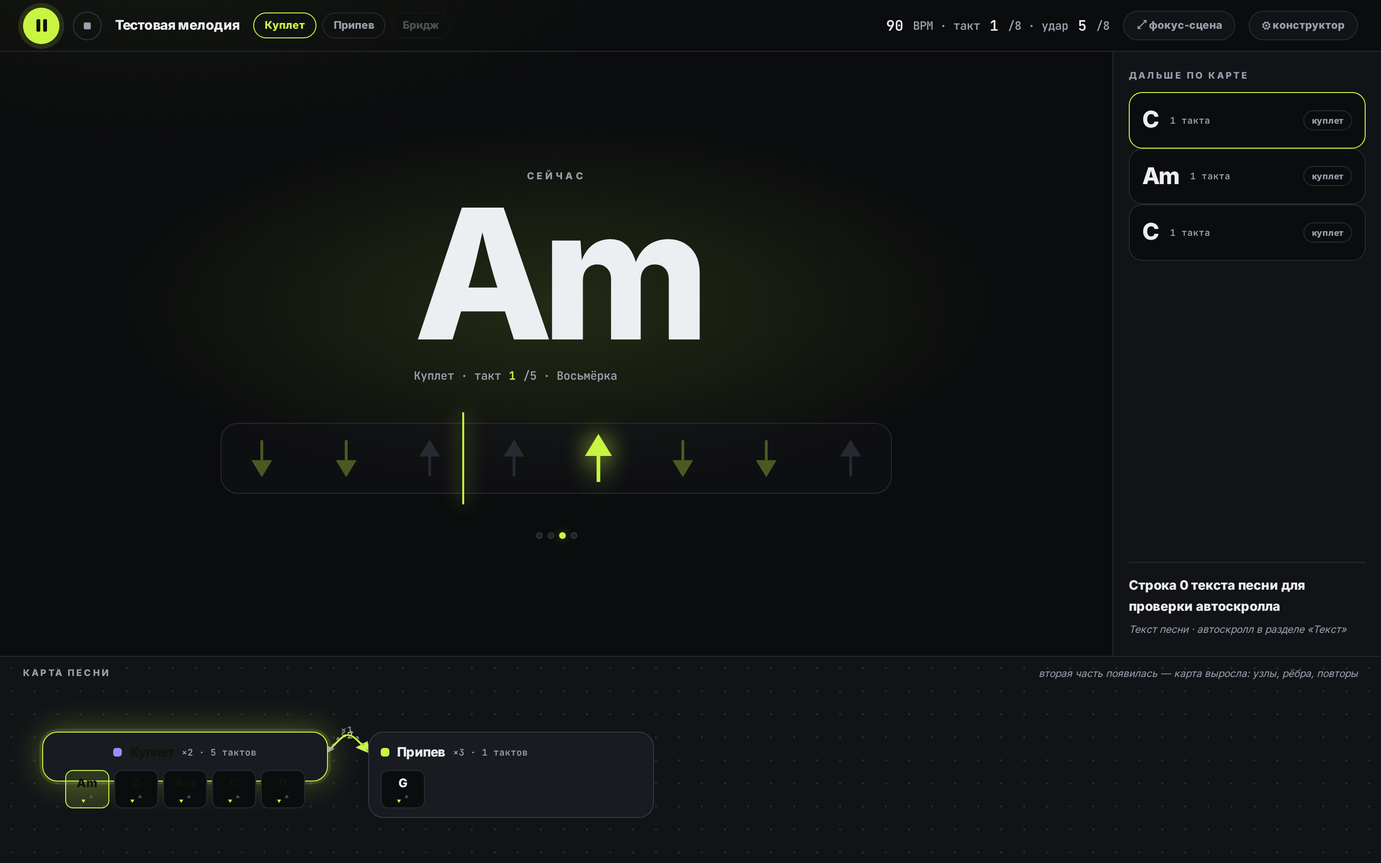
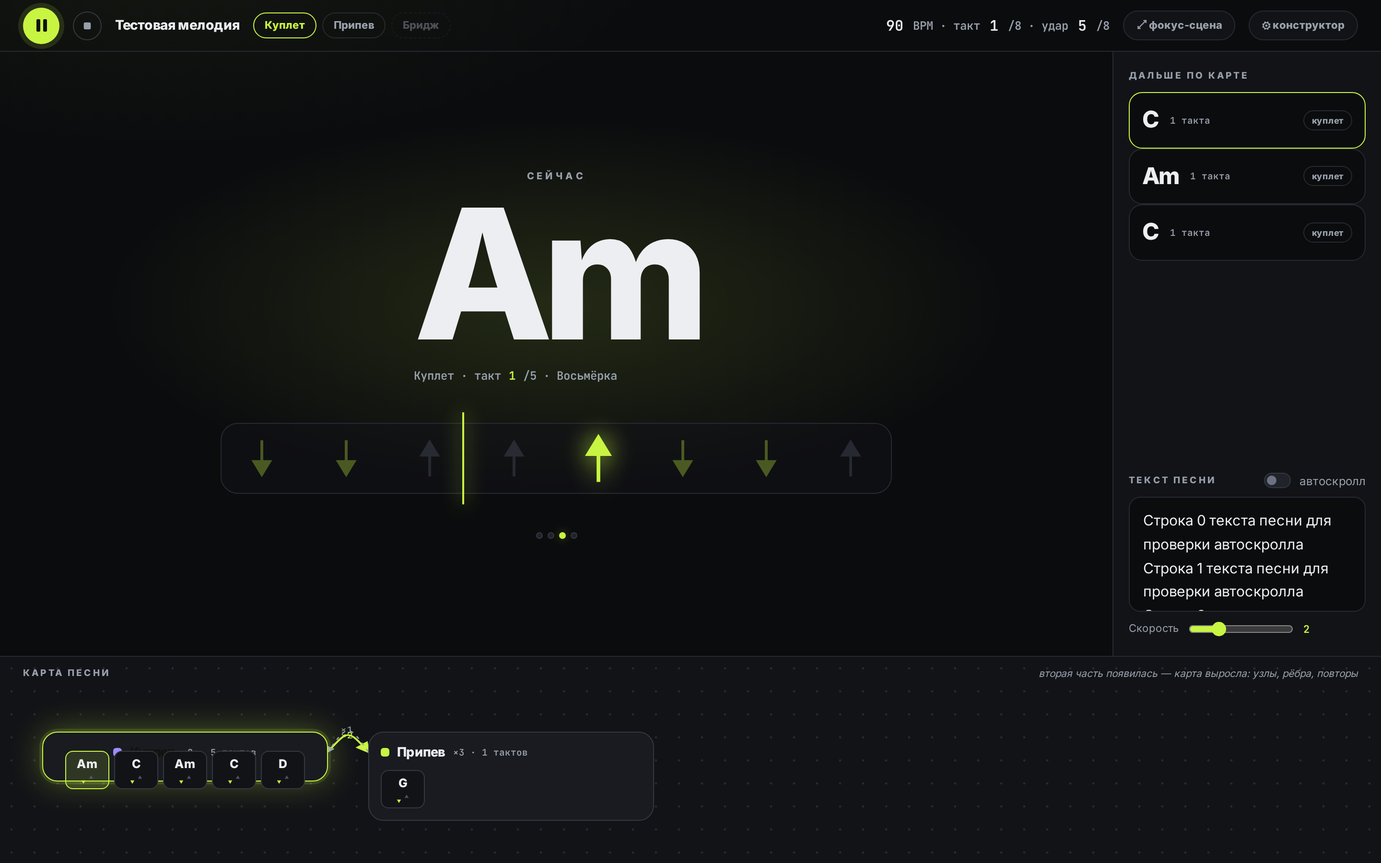
feat(stage): текст песни с автоскроллом на сцене, живой рельс «дальше», полные ленты тактов в узлах карты, контраст плиток, cache-bust ?v=h2-1; fix: мёртвая ссылка #st-lyr ломала refresh; e2e 32/32

Changed region(s): [[0.8125, 0.5911, 0.9688, 0.7467], [0.0312, 0.8711, 0.2188, 0.9333]]

diff --git a/dist/chordflow-redesign.html b/dist/chordflow-redesign.html
@@ -396,7 +396,7 @@ html[data-theme="paper"] .ncard{background:var(--s1)}
 .ncard .m{font:600 9.5px var(--font-mono);color:var(--muted)}
 .ncard.soon{border-color:var(--accent)}
 .ncard .from{margin-left:auto;font-size:9px;font-weight:700;color:var(--muted);border:var(--border-w) solid var(--line);border-radius:99px;padding:3px 8px;white-space:nowrap}
-.rail .lyr{margin-top:auto;border-top:var(--border-w) solid var(--line);padding-top:12px;font-size:13.5px;line-height:1.65;color:var(--muted);font-style:italic}
+.rail .lyr-unused{margin-top:auto;border-top:var(--border-w) solid var(--line);padding-top:12px;font-size:13.5px;line-height:1.65;color:var(--muted);font-style:italic}
 .rail .lyr b{color:var(--text);font-style:normal}
 .horizon{flex:none;height:var(--hh);border-top:var(--border-w) solid var(--line);background:var(--s1);position:relative;overflow:hidden;background-image:radial-gradient(var(--line) 1px, transparent 1.4px);background-size:24px 24px;transition:height .25s ease-out}
 html[data-theme="paper"] .horizon{background-color:var(--bg)}
@@ -434,6 +434,20 @@ html[data-theme="paper"] .cb{background:var(--s2)}
 .stplay.active{box-shadow:0 0 0 5px var(--accent-soft)}
 html[data-theme="paper"] .stplay{background:var(--line);color:var(--accent)}
 .ststop{width:30px;height:30px;border-radius:99px;border:var(--border-w) solid var(--line2);color:var(--muted);display:grid;place-items:center;flex:none}
+
+.stlyr{margin-top:auto;display:flex;flex-direction:column;gap:8px;min-height:0}
+.stlyr-head{display:flex;align-items:center;justify-content:space-between;gap:8px}
+.stlyr-box{flex:1;min-height:120px;max-height:34vh;resize:none;background:var(--bg);border:var(--border-w) solid var(--line);border-radius:12px;padding:12px 14px;font:400 15px/1.65 var(--font-ui);color:var(--text);outline:none;overflow-y:auto}
+html[data-theme="paper"] .stlyr-box{background:var(--s1)}
+.stlyr-box:focus{border-color:var(--accent-ring)}
+.stlyr-speed{display:flex;align-items:center;gap:8px;font-size:11px;color:var(--muted)}
+.stlyr-speed input{width:110px;accent-color:var(--accent)}
+html[data-theme="paper"] .stlyr-speed input{accent-color:var(--line)}
+.stlyr-speed output{font:600 11px var(--font-mono);color:var(--accent)}
+.gnode .strip2{overflow-x:auto;scrollbar-width:thin;padding-bottom:3px}
+.cb{background:var(--s1);border-color:var(--line2)}
+html[data-theme="paper"] .cb{background:var(--s2);border-color:var(--line)}
+.cb .n{color:var(--text)}
 
 </style>
 <style>
@@ -610,7 +624,13 @@ html[data-theme="paper"] .stplay{background:var(--line);color:var(--accent)}
       <aside class="rail">
         <span class="lbl">Дальше по карте</span>
         <div id="st-next"></div>
-        <div class="lyr" id="st-lyr"></div>
+        <div class="stlyr">
+          <div class="stlyr-head"><span class="lbl">Текст песни</span>
+            <label class="toggle small"><input id="st-autoscroll" type="checkbox"><span></span> автоскролл</label>
+          </div>
+          <textarea id="st-lyrics" class="stlyr-box" readonly spellcheck="false" placeholder="Текст появится из раздела «Текст песни»"></textarea>
+          <label class="stlyr-speed">Скорость <input id="st-speed" type="range" min="1" max="5" value="2"><output id="st-speed-value">2</output></label>
+        </div>
       </aside>
     </div>
     <div class="horizon" id="st-horizon">
@@ -1464,6 +1484,20 @@ function setupControls(state, handlers) {
       storage.set(themeKey, next);
     });
     $('#st-play').addEventListener('click', () => $('#play').click());
+    const stLyrics = $('#st-lyrics');
+    if (stLyrics) {
+      ['wheel', 'touchstart', 'touchmove', 'pointerdown'].forEach(ev => stLyrics.addEventListener(ev, stageLyricsHold, { passive: true }));
+      stLyrics.addEventListener('scroll', () => { if (stageUserHold) stageScrollPos = stLyrics.scrollTop; }, { passive: true });
+    }
+    const stAuto = $('#st-autoscroll');
+    if (stAuto) {
+      stAuto.checked = $('#lyrics-autoscroll')?.checked || false;
+      stAuto.onchange = () => { const la = $('#lyrics-autoscroll'); if (la) la.checked = stAuto.checked; stageScrollPos = stLyrics ? stLyrics.scrollTop : 0; };
+      if (!stageScrollTimer) stageScrollTimer = setInterval(stageLyricsTick, 50);
+    }
+    const stSpeed = $('#st-speed');
+    if (stSpeed) { stSpeed.value = $('#lyrics-speed')?.value || 2; $('#st-speed-value').textContent = stSpeed.value; stSpeed.oninput = () => { $('#st-speed-value').textContent = stSpeed.value; const ls = $('#lyrics-speed'); if (ls) { ls.value = stSpeed.value; $('#lyrics-speed-value').textContent = stSpeed.value; } }; }
+    $('#lyrics-text')?.addEventListener('input', () => { const b = $('#st-lyrics'); if (b) b.value = $('#lyrics-text').value; });
     $('#st-stop').addEventListener('click', () => $('#stop').click());
     $('#to-stage').addEventListener('click', () => setView('stage'));
     $('#to-constructor').addEventListener('click', () => setView('constructor'));
@@ -1592,8 +1626,6 @@ function renderStage(state) {
   $('#st-next').innerHTML = next.length
     ? next.map((o, i) => `<div class="ncard ${i === 0 ? 'soon' : ''}"><span class="n">${o.chord.name}</span><span class="m">${o.bars} такта</span><span class="from">${o.sectionName.toLowerCase()}</span></div>`).join('')
     : '<div class="ncard"><span class="m">Добавьте части — и здесь появится «дальше»</span></div>';
-  const lyr = (storage.get('guitar-constructor-lyrics-v1') || '').split('\n').filter(Boolean)[0];
-  $('#st-lyr').innerHTML = lyr ? `<b>${lyr}</b><br><span style="font-size:10.5px">Текст песни · автоскролл в разделе «Текст»</span>` : '';
   const seed = $('#st-seed'), graph = $('#st-graph');
   if (filled.length <= 1) {
     seed.style.display = 'flex'; graph.style.display = 'none';
@@ -1618,16 +1650,52 @@ function renderStage(state) {
     graph.innerHTML = `<svg class="edges" viewBox="0 0 1392 216" preserveAspectRatio="none"><defs><marker id="st-a" viewBox="0 0 10 10" refX="8" refY="5" markerWidth="7" markerHeight="7" orient="auto-start-reverse"><path d="M0 0 10 5 0 10z" fill="var(--accent)"/></marker><marker id="st-m" viewBox="0 0 10 10" refX="8" refY="5" markerWidth="6" markerHeight="6" orient="auto-start-reverse"><path d="M0 0 10 5 0 10z" fill="var(--muted)"/></marker></defs>${edges}</svg>` +
       filled.map(sec => {
         const p = pos[sec.id];
-        return `<section class="gnode sec-${(state.sections.indexOf(sec) % 3) + 1} ${sec.id === state.currentSectionId ? 'play' : ''}" data-section="${sec.id}" style="left:${p.x}px;top:${p.y}px"><div class="h"><i></i><b>${sec.name}</b><span class="m">×${state.songOrder.filter(x => x === sec.id).length} · ${sec.sequence.reduce((a, b) => a + b.bars, 0)} тактов</span></div><div class="strip2">${sec.sequence.slice(0, 5).map((bl, bi) => `<div class="cb" data-ci="${bi}"><div class="n">${bl.chord.name}</div><div class="a">${stArrow(state.pattern.strokes[0], true)}${stArrow(state.pattern.strokes[2] || state.pattern.strokes[0], true)}</div></div>`).join('')}</div></section>`;
+        return `<section class="gnode sec-${(state.sections.indexOf(sec) % 3) + 1} ${sec.id === state.currentSectionId ? 'play' : ''}" data-section="${sec.id}" style="left:${p.x}px;top:${p.y}px"><div class="h"><i></i><b>${sec.name}</b><span class="m">×${state.songOrder.filter(x => x === sec.id).length} · ${sec.sequence.reduce((a, b) => a + b.bars, 0)} тактов</span></div><div class="strip2">${sec.sequence.map((bl, bi) => `<div class="cb" data-ci="${bi}" title="${bl.chord.name}"><div class="n">${bl.chord.name}</div><div class="a">${stArrow(state.pattern.strokes[0], true)}${stArrow(state.pattern.strokes[2] || state.pattern.strokes[0], true)}</div></div>`).join('')}</div></section>`;
       }).join('');
+  }
+  const stLyrics = $('#st-lyrics');
+  if (stLyrics) {
+    const src = $('#lyrics-text')?.value || storage.get('guitar-constructor-lyrics-v1') || '';
+    if (stLyrics.value !== src) { stLyrics.value = src; stageScrollPos = 0; }
   }
   $('#st-hint').textContent = filled.length <= 1
     ? 'заполнена одна часть — карта свернулась в семечко'
     : filled.length === 2 ? 'вторая часть появилась — карта выросла: узлы, рёбра, повторы' : 'песня собрана — виден весь обход с петлёй цикла';
 }
 
+let stageScrollTimer = null, stageScrollPos = 0, stageUserHold = false, stageHoldTimer = null, lastNextKey = '';
+function stageNextHTML(state, item) {
+  const order = orderSequence(state);
+  const idx = order.findIndex(o => o.sectionId === item.sectionId && o.localIndex === item.localIndex);
+  const next = order.slice(idx + 1, idx + 4);
+  return next.length
+    ? next.map((o, i) => `<div class="ncard ${i === 0 ? 'soon' : ''}"><span class="n">${o.chord.name}</span><span class="m">${o.bars} такта</span><span class="from">${o.sectionName.toLowerCase()}</span></div>`).join('')
+    : '<div class="ncard"><span class="m">Конец песни · цикл вернёт к началу</span></div>';
+}
+function stageLyricsTick() {
+  const box = $('#st-lyrics');
+  if (!box || document.body.dataset.view !== 'stage') return;
+  if (!document.body.classList.contains('playing') || !$('#st-autoscroll')?.checked || stageUserHold) return;
+  const speed = (7 + Number($('#st-speed')?.value || 2)) * 0.075;
+  stageScrollPos += speed;
+  box.scrollTop = stageScrollPos;
+  if (box.scrollTop + box.clientHeight >= box.scrollHeight - 2) { $('#st-autoscroll').checked = false; }
+}
+function stageLyricsHold() {
+  const box = $('#st-lyrics'); if (!box || !$('#st-autoscroll')?.checked) return;
+  stageUserHold = true; stageScrollPos = box.scrollTop;
+  if (stageHoldTimer) clearTimeout(stageHoldTimer);
+  stageHoldTimer = setTimeout(() => { stageUserHold = false; stageScrollPos = box.scrollTop; }, 800);
+}
+
 function updateStagePlayhead(item, step) {
   if (document.body.dataset.view !== 'stage' || !item) return;
+  const key = item.sectionId + ':' + item.localIndex;
+  if (key !== lastNextKey && currentState) { lastNextKey = key; const rail = $('#st-next'); if (rail) rail.innerHTML = stageNextHTML(currentState, item); }
+  document.querySelectorAll('.gnode .strip2').forEach(strip => {
+    const lit = strip.closest('.gnode')?.classList.contains('play') ? strip.querySelector('.cb.lit') : null;
+    if (lit) strip.scrollLeft = Math.max(0, lit.offsetLeft - (strip.clientWidth - lit.offsetWidth) / 2);
+  });
   $('#st-chord').textContent = item.chord.name;
   $('#st-bar').textContent = item.localIndex + 1;
   $('#st-hit').textContent = (step % 8) + 1;

diff --git a/ui.js b/ui.js
@@ -1,5 +1,5 @@
-import { CHORDS, MAIN_CHORDS, ADDITIONAL_CHORDS, STRING_NAMES } from './chords-data.js?v=chords-2';
-import { PATTERNS } from './patterns-data.js?v=eighth-10';
+import { CHORDS, MAIN_CHORDS, ADDITIONAL_CHORDS, STRING_NAMES } from './chords-data.js?v=h2-1';
+import { PATTERNS } from './patterns-data.js?v=h2-1';
 
 const $ = selector => document.querySelector(selector);
 const appKey = 'guitar-constructor-session-v1';
@@ -318,6 +318,20 @@ export function setupControls(state, handlers) {
       storage.set(themeKey, next);
     });
     $('#st-play').addEventListener('click', () => $('#play').click());
+    const stLyrics = $('#st-lyrics');
+    if (stLyrics) {
+      ['wheel', 'touchstart', 'touchmove', 'pointerdown'].forEach(ev => stLyrics.addEventListener(ev, stageLyricsHold, { passive: true }));
+      stLyrics.addEventListener('scroll', () => { if (stageUserHold) stageScrollPos = stLyrics.scrollTop; }, { passive: true });
+    }
+    const stAuto = $('#st-autoscroll');
+    if (stAuto) {
+      stAuto.checked = $('#lyrics-autoscroll')?.checked || false;
+      stAuto.onchange = () => { const la = $('#lyrics-autoscroll'); if (la) la.checked = stAuto.checked; stageScrollPos = stLyrics ? stLyrics.scrollTop : 0; };
+      if (!stageScrollTimer) stageScrollTimer = setInterval(stageLyricsTick, 50);
+    }
+    const stSpeed = $('#st-speed');
+    if (stSpeed) { stSpeed.value = $('#lyrics-speed')?.value || 2; $('#st-speed-value').textContent = stSpeed.value; stSpeed.oninput = () => { $('#st-speed-value').textContent = stSpeed.value; const ls = $('#lyrics-speed'); if (ls) { ls.value = stSpeed.value; $('#lyrics-speed-value').textContent = stSpeed.value; } }; }
+    $('#lyrics-text')?.addEventListener('input', () => { const b = $('#st-lyrics'); if (b) b.value = $('#lyrics-text').value; });
     $('#st-stop').addEventListener('click', () => $('#stop').click());
     $('#to-stage').addEventListener('click', () => setView('stage'));
     $('#to-constructor').addEventListener('click', () => setView('constructor'));
@@ -446,8 +460,6 @@ export function renderStage(state) {
   $('#st-next').innerHTML = next.length
     ? next.map((o, i) => `<div class="ncard ${i === 0 ? 'soon' : ''}"><span class="n">${o.chord.name}</span><span class="m">${o.bars} такта</span><span class="from">${o.sectionName.toLowerCase()}</span></div>`).join('')
     : '<div class="ncard"><span class="m">Добавьте части — и здесь появится «дальше»</span></div>';
-  const lyr = (storage.get('guitar-constructor-lyrics-v1') || '').split('\n').filter(Boolean)[0];
-  $('#st-lyr').innerHTML = lyr ? `<b>${lyr}</b><br><span style="font-size:10.5px">Текст песни · автоскролл в разделе «Текст»</span>` : '';
   const seed = $('#st-seed'), graph = $('#st-graph');
   if (filled.length <= 1) {
     seed.style.display = 'flex'; graph.style.display = 'none';
@@ -472,16 +484,52 @@ export function renderStage(state) {
     graph.innerHTML = `<svg class="edges" viewBox="0 0 1392 216" preserveAspectRatio="none"><defs><marker id="st-a" viewBox="0 0 10 10" refX="8" refY="5" markerWidth="7" markerHeight="7" orient="auto-start-reverse"><path d="M0 0 10 5 0 10z" fill="var(--accent)"/></marker><marker id="st-m" viewBox="0 0 10 10" refX="8" refY="5" markerWidth="6" markerHeight="6" orient="auto-start-reverse"><path d="M0 0 10 5 0 10z" fill="var(--muted)"/></marker></defs>${edges}</svg>` +
       filled.map(sec => {
         const p = pos[sec.id];
-        return `<section class="gnode sec-${(state.sections.indexOf(sec) % 3) + 1} ${sec.id === state.currentSectionId ? 'play' : ''}" data-section="${sec.id}" style="left:${p.x}px;top:${p.y}px"><div class="h"><i></i><b>${sec.name}</b><span class="m">×${state.songOrder.filter(x => x === sec.id).length} · ${sec.sequence.reduce((a, b) => a + b.bars, 0)} тактов</span></div><div class="strip2">${sec.sequence.slice(0, 5).map((bl, bi) => `<div class="cb" data-ci="${bi}"><div class="n">${bl.chord.name}</div><div class="a">${stArrow(state.pattern.strokes[0], true)}${stArrow(state.pattern.strokes[2] || state.pattern.strokes[0], true)}</div></div>`).join('')}</div></section>`;
+        return `<section class="gnode sec-${(state.sections.indexOf(sec) % 3) + 1} ${sec.id === state.currentSectionId ? 'play' : ''}" data-section="${sec.id}" style="left:${p.x}px;top:${p.y}px"><div class="h"><i></i><b>${sec.name}</b><span class="m">×${state.songOrder.filter(x => x === sec.id).length} · ${sec.sequence.reduce((a, b) => a + b.bars, 0)} тактов</span></div><div class="strip2">${sec.sequence.map((bl, bi) => `<div class="cb" data-ci="${bi}" title="${bl.chord.name}"><div class="n">${bl.chord.name}</div><div class="a">${stArrow(state.pattern.strokes[0], true)}${stArrow(state.pattern.strokes[2] || state.pattern.strokes[0], true)}</div></div>`).join('')}</div></section>`;
       }).join('');
+  }
+  const stLyrics = $('#st-lyrics');
+  if (stLyrics) {
+    const src = $('#lyrics-text')?.value || storage.get('guitar-constructor-lyrics-v1') || '';
+    if (stLyrics.value !== src) { stLyrics.value = src; stageScrollPos = 0; }
   }
   $('#st-hint').textContent = filled.length <= 1
     ? 'заполнена одна часть — карта свернулась в семечко'
     : filled.length === 2 ? 'вторая часть появилась — карта выросла: узлы, рёбра, повторы' : 'песня собрана — виден весь обход с петлёй цикла';
 }
 
+let stageScrollTimer = null, stageScrollPos = 0, stageUserHold = false, stageHoldTimer = null, lastNextKey = '';
+function stageNextHTML(state, item) {
+  const order = orderSequence(state);
+  const idx = order.findIndex(o => o.sectionId === item.sectionId && o.localIndex === item.localIndex);
+  const next = order.slice(idx + 1, idx + 4);
+  return next.length
+    ? next.map((o, i) => `<div class="ncard ${i === 0 ? 'soon' : ''}"><span class="n">${o.chord.name}</span><span class="m">${o.bars} такта</span><span class="from">${o.sectionName.toLowerCase()}</span></div>`).join('')
+    : '<div class="ncard"><span class="m">Конец песни · цикл вернёт к началу</span></div>';
+}
+function stageLyricsTick() {
+  const box = $('#st-lyrics');
+  if (!box || document.body.dataset.view !== 'stage') return;
+  if (!document.body.classList.contains('playing') || !$('#st-autoscroll')?.checked || stageUserHold) return;
+  const speed = (7 + Number($('#st-speed')?.value || 2)) * 0.075;
+  stageScrollPos += speed;
+  box.scrollTop = stageScrollPos;
+  if (box.scrollTop + box.clientHeight >= box.scrollHeight - 2) { $('#st-autoscroll').checked = false; }
+}
+function stageLyricsHold() {
+  const box = $('#st-lyrics'); if (!box || !$('#st-autoscroll')?.checked) return;
+  stageUserHold = true; stageScrollPos = box.scrollTop;
+  if (stageHoldTimer) clearTimeout(stageHoldTimer);
+  stageHoldTimer = setTimeout(() => { stageUserHold = false; stageScrollPos = box.scrollTop; }, 800);
+}
+
 export function updateStagePlayhead(item, step) {
   if (document.body.dataset.view !== 'stage' || !item) return;
+  const key = item.sectionId + ':' + item.localIndex;
+  if (key !== lastNextKey && currentState) { lastNextKey = key; const rail = $('#st-next'); if (rail) rail.innerHTML = stageNextHTML(currentState, item); }
+  document.querySelectorAll('.gnode .strip2').forEach(strip => {
+    const lit = strip.closest('.gnode')?.classList.contains('play') ? strip.querySelector('.cb.lit') : null;
+    if (lit) strip.scrollLeft = Math.max(0, lit.offsetLeft - (strip.clientWidth - lit.offsetWidth) / 2);
+  });
   $('#st-chord').textContent = item.chord.name;
   $('#st-bar').textContent = item.localIndex + 1;
   $('#st-hit').textContent = (step % 8) + 1;

diff --git a/styles.css b/styles.css
@@ -388,7 +388,7 @@ html[data-theme="paper"] .ncard{background:var(--s1)}
 .ncard .m{font:600 9.5px var(--font-mono);color:var(--muted)}
 .ncard.soon{border-color:var(--accent)}
 .ncard .from{margin-left:auto;font-size:9px;font-weight:700;color:var(--muted);border:var(--border-w) solid var(--line);border-radius:99px;padding:3px 8px;white-space:nowrap}
-.rail .lyr{margin-top:auto;border-top:var(--border-w) solid var(--line);padding-top:12px;font-size:13.5px;line-height:1.65;color:var(--muted);font-style:italic}
+.rail .lyr-unused{margin-top:auto;border-top:var(--border-w) solid var(--line);padding-top:12px;font-size:13.5px;line-height:1.65;color:var(--muted);font-style:italic}
 .rail .lyr b{color:var(--text);font-style:normal}
 .horizon{flex:none;height:var(--hh);border-top:var(--border-w) solid var(--line);background:var(--s1);position:relative;overflow:hidden;background-image:radial-gradient(var(--line) 1px, transparent 1.4px);background-size:24px 24px;transition:height .25s ease-out}
 html[data-theme="paper"] .horizon{background-color:var(--bg)}
@@ -426,3 +426,17 @@ html[data-theme="paper"] .cb{background:var(--s2)}
 .stplay.active{box-shadow:0 0 0 5px var(--accent-soft)}
 html[data-theme="paper"] .stplay{background:var(--line);color:var(--accent)}
 .ststop{width:30px;height:30px;border-radius:99px;border:var(--border-w) solid var(--line2);color:var(--muted);display:grid;place-items:center;flex:none}
+
+.stlyr{margin-top:auto;display:flex;flex-direction:column;gap:8px;min-height:0}
+.stlyr-head{display:flex;align-items:center;justify-content:space-between;gap:8px}
+.stlyr-box{flex:1;min-height:120px;max-height:34vh;resize:none;background:var(--bg);border:var(--border-w) solid var(--line);border-radius:12px;padding:12px 14px;font:400 15px/1.65 var(--font-ui);color:var(--text);outline:none;overflow-y:auto}
+html[data-theme="paper"] .stlyr-box{background:var(--s1)}
+.stlyr-box:focus{border-color:var(--accent-ring)}
+.stlyr-speed{display:flex;align-items:center;gap:8px;font-size:11px;color:var(--muted)}
+.stlyr-speed input{width:110px;accent-color:var(--accent)}
+html[data-theme="paper"] .stlyr-speed input{accent-color:var(--line)}
+.stlyr-speed output{font:600 11px var(--font-mono);color:var(--accent)}
+.gnode .strip2{overflow-x:auto;scrollbar-width:thin;padding-bottom:3px}
+.cb{background:var(--s1);border-color:var(--line2)}
+html[data-theme="paper"] .cb{background:var(--s2);border-color:var(--line)}
+.cb .n{color:var(--text)}

diff --git a/app.js b/app.js
@@ -1,7 +1,7 @@
-import { CHORDS, PATTERNS } from './ui.js';
-import { AudioEngine } from './audio-engine.js';
-import { Sequencer } from './sequencer.js';
-import { createInitialState, persist, renderPalette, renderSections, renderTimeline, setupControls, setTransportState, updatePlayhead, applyLanguage, storage, askConfirm, askText, $ } from './ui.js';
+import { CHORDS, PATTERNS } from './ui.js?v=h2-1';
+import { AudioEngine } from './audio-engine.js?v=h2-1';
+import { Sequencer } from './sequencer.js?v=h2-1';
+import { createInitialState, persist, renderPalette, renderSections, renderTimeline, setupControls, setTransportState, updatePlayhead, applyLanguage, storage, askConfirm, askText, $ } from './ui.js?v=h2-1';
 
 const state = createInitialState();
 const CLOUD_URL = 'https://script.google.com/macros/s/AKfycbzoNGnjZD05oRdKJJCqSOUEMy31uibqpCdI_OExG-B8iWRDFtFHCEkDkGTsR_HSKzo/exec';

diff --git a/index.html b/index.html
@@ -161,7 +161,13 @@
       <aside class="rail">
         <span class="lbl">Дальше по карте</span>
         <div id="st-next"></div>
-        <div class="lyr" id="st-lyr"></div>
+        <div class="stlyr">
+          <div class="stlyr-head"><span class="lbl">Текст песни</span>
+            <label class="toggle small"><input id="st-autoscroll" type="checkbox"><span></span> автоскролл</label>
+          </div>
+          <textarea id="st-lyrics" class="stlyr-box" readonly spellcheck="false" placeholder="Текст появится из раздела «Текст песни»"></textarea>
+          <label class="stlyr-speed">Скорость <input id="st-speed" type="range" min="1" max="5" value="2"><output id="st-speed-value">2</output></label>
+        </div>
       </aside>
     </div>
     <div class="horizon" id="st-horizon">

diff --git a/tools/e2e-full.py b/tools/e2e-full.py
@@ -131,6 +131,19 @@ try:
         hidden = pg.eval_on_selector('#st-horizon', 'e=>getComputedStyle(e).display') == 'none'
         pg.click('#focus-toggle'); pg.wait_for_timeout(200)
         check("hybrid: focus-scene hides map", hidden)
+        pg.click('#st-play'); pg.wait_for_timeout(600)
+        st_lyr_len = pg.eval_on_selector('#st-lyrics', 'e=>e.value.length')
+        pg.click('.stlyr-head .toggle'); pg.wait_for_timeout(1600)
+        st_scroll = pg.eval_on_selector('#st-lyrics', 'e=>e.scrollTop')
+        rail1 = (pg.text_content('#st-next .ncard .n') or '').strip()
+        pg.wait_for_timeout(3000)
+        rail2 = (pg.text_content('#st-next .ncard .n') or '').strip()
+        cb_count = pg.eval_on_selector_all('.gnode.play .cb', 'e=>e.length')
+        verse_len = pg.eval_on_selector_all('.lane[data-lane="verse"] .block', 'e=>e.length')
+        check("hybrid: stage lyrics mirror + autoscroll", st_lyr_len > 0 and st_scroll > 0, f"len={st_lyr_len}, scrollTop={st_scroll}")
+        check("hybrid: next-rail live rebuild", rail1 != rail2, f"{rail1}->{rail2}")
+        check("hybrid: node strip shows all bars", cb_count == verse_len, f"{cb_count}/{verse_len}")
+        pg.click('#st-stop'); pg.wait_for_timeout(300)
         pg.click('#to-constructor'); pg.wait_for_timeout(400)
         check("hybrid: back to constructor", pg.eval_on_selector('body', 'e=>e.dataset.view') == 'constructor')
         pg.close()

diff --git a/docs/MANUAL-TEST.md b/docs/MANUAL-TEST.md
@@ -53,6 +53,9 @@
 | 34 | Сцена: Play/Stop в стрипе | гигантский аккорд меняется по плейхеду, свип и стрелки дорожки бегут, узел карты светится, cb-такты подсвечиваются | ☐ | ☐ | ☐ |
 | 35 | «⤢ фокус-сцена» | карта скрывается, сцена на весь экран; повторный клик возвращает карту | ☐ | ☐ | ☐ |
 | 36 | «⚙ конструктор» из сцены | возврат в режим 0.9, выбор режима запоминается после перезагрузки | ☐ | ☐ | ☐ |
+| 37 | Сцена: блок «Текст песни» в рельсе | текст зеркалится из редактора; автоскролл едет при игре; колесо/тач перехватывают скролл и через 0.8 с продолжают; скорость 1–5 синхронна с оверлеем | ☐ | ☐ | ☐ |
+| 38 | Сцена: рельс «Дальше по карте» | перестраивается после каждого сыгранного аккорда, бирки источников верные | ☐ | ☐ | ☐ |
+| 39 | Сцена: узлы карты с >5 тактами | лента тактов в узле скроллится, сыгранный такт подсвечен и виден (автоскролл ленты) | ☐ | ☐ | ☐ |
 
 ## Если нашли баг
 

diff --git a/docs/TEST-REPORT.md b/docs/TEST-REPORT.md
@@ -19,7 +19,7 @@
 | pattern switch: mute available + mute arrows | ✅ PASS  |
 | bpm steppers | ✅ PASS 95/90 |
 | loop toggle flips state | ✅ PASS True->False |
-| play: transport + playhead advances | ✅ PASS Куплет · такт 1 · удар 6 -> Куплет · такт 1 · удар 8 |
+| play: transport + playhead advances | ✅ PASS Куплет · такт 1 · удар 4 -> Куплет · такт 1 · удар 8 |
 | stop resets position | ✅ PASS  |
 | background WAV render + play | ✅ PASS  |
 | lyrics autoscroll | ✅ PASS scrollTop=1313 |
@@ -32,6 +32,9 @@
 | hybrid: graph 2 nodes + edges | ✅ PASS  |
 | hybrid: playhead drives giant chord + runway | ✅ PASS chord=Am |
 | hybrid: focus-scene hides map | ✅ PASS  |
+| hybrid: stage lyrics mirror + autoscroll | ✅ PASS len=2869, scrollTop=22 |
+| hybrid: next-rail live rebuild | ✅ PASS C->Am |
+| hybrid: node strip shows all bars | ✅ PASS 5/5 |
 | hybrid: back to constructor | ✅ PASS  |
 | mobile 390: add + play | ✅ PASS  |
 
